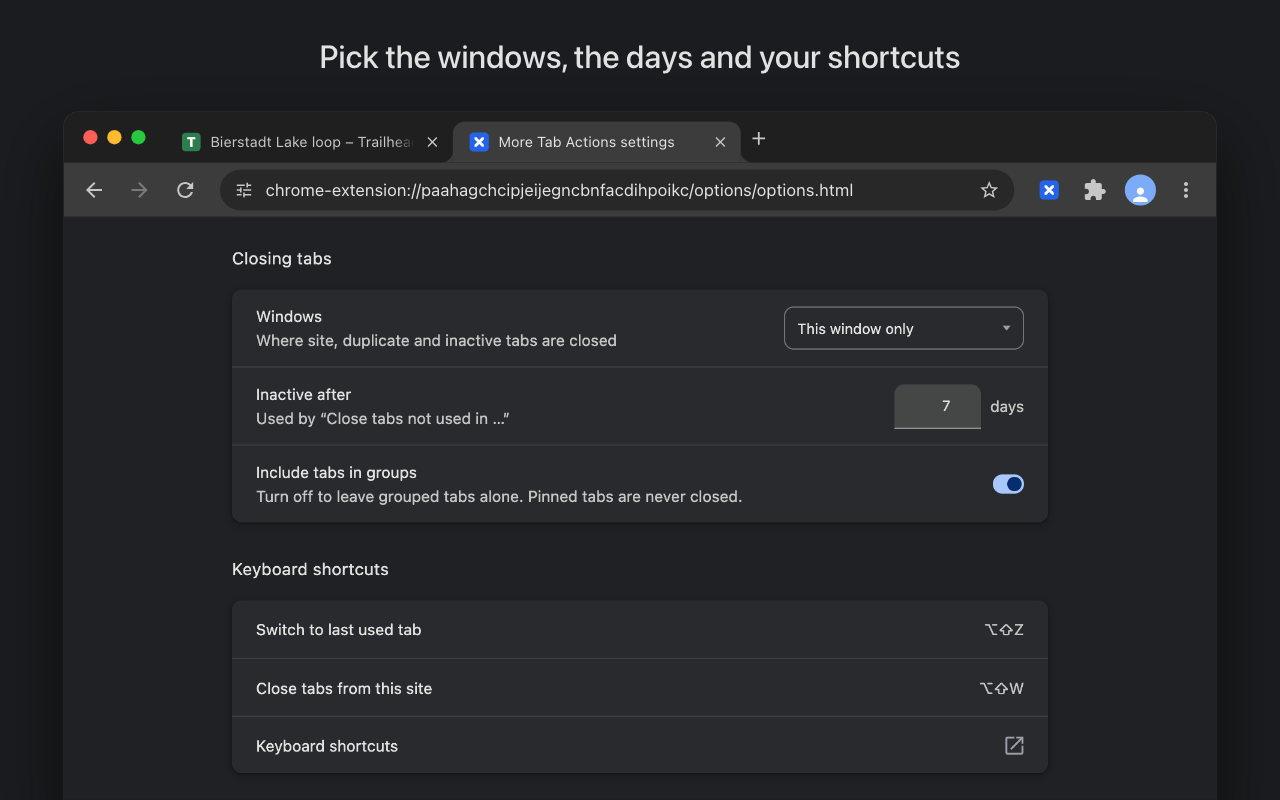
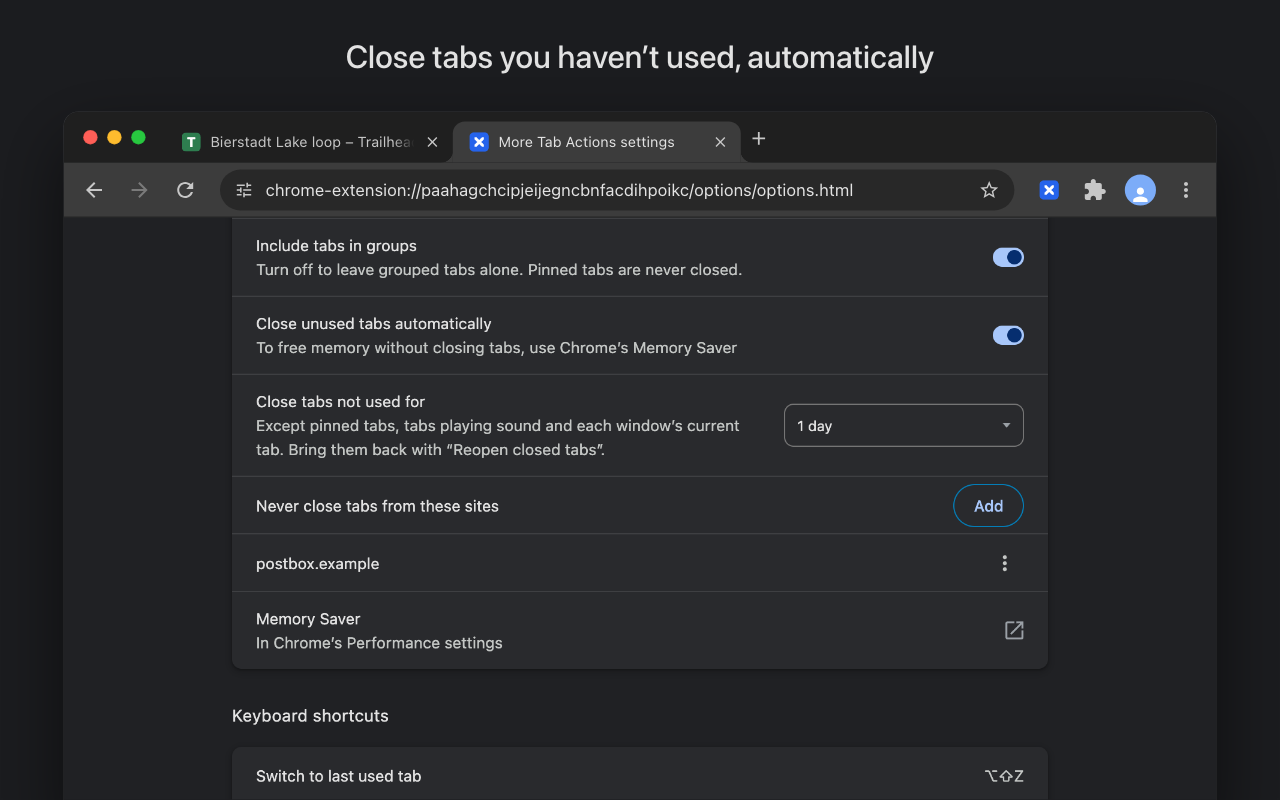
Document automatic closing; screenshot 5 shows it
README, PRIVACY, CHANGELOG, the store listing (description, alarms
justification, settings, zip contents) and CLAUDE.md, including that
Chrome gives extensions no camera, microphone or screen capture state.
Screenshot 5 is now the Closing tabs card with automatic closing on.

diff --git a/CHROMEWEBSTORE.md b/CHROMEWEBSTORE.md
@@ -32,6 +32,9 @@ CLOSE TABS
 • Close tabs to the left: the partner to Chrome’s “Close tabs to the right”.
 • Reopen closed tabs: brings back the last batch an action closed, in their windows, places and groups.
 
+CLOSE UNUSED TABS AUTOMATICALLY
+Turn it on to close tabs you haven’t used for 1, 4 or 12 hours, 1 or 3 days, or a week. The tab in front, pinned tabs, tabs playing sound and sites you list are never closed, and Reopen closed tabs brings the rest back. Off until you turn it on. To free memory without closing tabs, Chrome’s Memory Saver is a click away.
+
 TIDY UP
 • Sort tabs by site: tab groups stay together and pinned tabs stay put.
 • Mute other tabs: silences every other tab playing sound. Choose Unmute tabs to bring them back; tabs you muted yourself stay muted.
@@ -62,7 +65,7 @@ No account and no sign-in. More Tab Actions collects nothing and sends nothing. 
 Make Chrome Yours › Functionality & UI (alternative: Productivity › Tools).
 
 **Single Purpose** [REQUIRED]
-Adds extra actions for tabs to Chrome’s tab right-click menu (closing tabs by site, duplicate or unused tabs, reopening them, sorting tabs by site, muting other tabs, putting a window’s tabs into a tab group, and saving windows as a workspace to reopen later), with keyboard shortcuts for the same actions, plus a shortcut to switch back to the last used tab.
+Adds extra actions for tabs to Chrome’s tab right-click menu (closing tabs by site, duplicate or unused tabs, reopening them, sorting tabs by site, muting other tabs, putting a window’s tabs into a tab group, and saving windows as a workspace to reopen later), optionally closing unused tabs by itself, with keyboard shortcuts for the same actions, plus a shortcut to switch back to the last used tab.
 
 **Primary Language** [REQUIRED]
 English.
@@ -79,14 +82,14 @@ English.
 | Screenshot 2 | 1280×800 | ✅ Ready | `store/screenshot-2.png`: “Close duplicate tabs, keep one of each”, the tab strip before and after |
 | Screenshot 3 | 1280×800 | ✅ Ready | `store/screenshot-3.png`: “Mute every other tab”, the menu over tabs playing sound |
 | Screenshot 4 | 1280×800 | ✅ Ready | `store/screenshot-4.png`: “Choose what’s in the menu”, the settings page |
-| Screenshot 5 | 1280×800 | ✅ Ready | `store/screenshot-5.png`: “Pick the windows, the days and your shortcuts”, settings in dark mode: Closing tabs and Keyboard shortcuts |
+| Screenshot 5 | 1280×800 | ✅ Ready | `store/screenshot-5.png`: “Close tabs you haven’t used, automatically”, settings in dark mode: automatic closing on (1 day, one never-close site) and the Memory Saver link |
 | Screenshot 6 | 1280×800 | ✅ Ready | `store/screenshot-6.png`: “Save your windows, reopen them later”, the Workspaces card with three real workspaces and a row’s ⋮ menu open |
 | Small Promo Tile [RECOMMENDED] | 440×280 | ✅ Ready | `store/promo-440x280.png`: icon, name, “More from your tab menu” |
 | Marquee Promo Tile [OPTIONAL] | 1400×560 | ⬜ Not made | Only used if the store features the extension |
 
 **How they were made.** `node store/tools/make-screenshots.mjs` regenerates all seven. It loads
 `extension/` as an unpacked extension in Playwright's Chromium (Playwright 1.64.0 from the Tabby repo).
-- The settings pages (4, 5, 6) are real captures, at 1.2 like the others (shot 2 at 1). The script stops if shot 5’s Keyboard shortcuts card no longer fits. Shot 6’s workspaces are saved by the build’s own `snapshotWindows` and `workspaceName` from windows of the made-up sites (one renamed “Hiking trip”).
+- The settings pages (4, 5, 6) are real captures, at 1.2 like the others (shot 2 at 1). The script stops if shot 5’s rows, down to Memory Saver, no longer fit. Shot 6’s workspaces are saved by the build’s own `snapshotWindows` and `workspaceName` from windows of the made-up sites (one renamed “Hiking trip”).
 - Screenshot 2's tab lists are real: the script opens the tabs, runs the build's own “Close duplicate tabs” (`extension/shared/actions.js` `runAction`, as `extension/background/background.js` does) and draws the strip from `chrome.tabs` before and after.
 - Chrome's tab right-click menu is native, so it can't be captured headlessly; shots 1 and 3 draw it.
   - Its items and order come from Chromium's `tab_menu_model.cc` at tag 157.0.8103.39. They use the macOS Title Case strings, for a signed-out profile with one window and no tab groups.
@@ -106,9 +109,10 @@ English.
 | `contextMenus` | Adds the “More tab actions” submenu to the menu Chrome shows when the user right-clicks a tab. No install warning. |
 | `tabs` | The actions need each open tab’s address to find tabs from the same site and duplicate pages, to sort tabs by site and to name a new tab group after its main site, plus its last-used time for “Close tabs not used in N days”. “Save windows as workspace” reads the open tabs’ addresses, titles and pinned state to keep them on the device; “Open workspace” reopens them and discards the background ones (`chrome.tabs.discard`) so they load only when clicked. Tabs are read on the device, only when the user picks an action or a shortcut, and nothing is sent anywhere. Install warning: “Read your browsing history”. |
 | `tabGroups` | “Save this window as a group” and “Close window and keep as group” name the tab group they make (`chrome.tabGroups.update`, title only; Chrome picks the colour). Saving a workspace reads the open groups’ titles, colours and collapsed state (`chrome.tabGroups.query`), and opening one makes them again with the same title, colour and collapsed state. Making a group itself (`chrome.tabs.group`) needs no permission; reading and naming it do. Nothing is sent anywhere. Install warning: “View and manage your tab groups”. |
-| `storage` | `chrome.storage.sync` keeps the user’s settings (hidden actions, days, windows, grouped tabs), so Chrome Sync carries them to the user’s other computers through their own Google account, like Chrome’s own settings (signed out of Chrome, they stay on the computer). `chrome.storage.local` holds the user’s saved workspaces (`workspaces`: per window, tab addresses, titles, pinned state, tab groups and the window’s size and state; at most 40 of 500 tabs and 200 KB each; this computer only, never synced, deleted with the extension), a settings change Chrome Sync refused for the moment, until it’s retried, and whether Chrome was last seen in light or dark mode (`toolbarDark`, one true/false, this computer only, never synced), for the toolbar icon. `chrome.storage.session` remembers the addresses of the last batch of tabs an action closed, so “Reopen closed tabs” can bring them back. Chrome clears that when it quits. Nothing is sent to the developer. No install warning. |
+| `storage` | `chrome.storage.sync` keeps the user’s settings (hidden actions, days, windows, grouped tabs, automatic closing, the sites it never closes), so Chrome Sync carries them to the user’s other computers through their own Google account, like Chrome’s own settings (signed out of Chrome, they stay on the computer). `chrome.storage.local` holds the user’s saved workspaces (`workspaces`: per window, tab addresses, titles, pinned state, tab groups and the window’s size and state; at most 40 of 500 tabs and 200 KB each; this computer only, never synced, deleted with the extension), a settings change Chrome Sync refused for the moment, until it’s retried, and whether Chrome was last seen in light or dark mode (`toolbarDark`, one true/false, this computer only, never synced), for the toolbar icon. `chrome.storage.session` remembers the addresses of the last batch of tabs an action closed, so “Reopen closed tabs” can bring them back. Chrome clears that when it quits. Nothing is sent to the developer. No install warning. |
 | `commands` (manifest key) | Keyboard shortcuts for the same actions, plus “Switch to last used tab”; two have defaults (Close tabs from this site, Alt+Shift+W; Switch to last used tab, Alt+Shift+Z). Users change them at chrome://extensions/shortcuts. The two group actions and the three workspace actions (save windows, save this window, open the last workspace) have commands with no default key. No install warning. |
 | `action` (manifest key, not a permission) | The toolbar button opens the settings page. Its icon is a plain glyph in Chrome’s own toolbar icon colours, light or dark to match Chrome. |
+| `alarms` | “Close unused tabs automatically” (off by default) checks every 5 minutes, while it’s on, for tabs not used for the time the user chose (`chrome.alarms`, one alarm, cleared when the setting is turned off). It reads only the open tabs’ last-used times, addresses and states, on the device, and closes the unused ones, keeping their addresses in session storage so “Reopen closed tabs” can bring them back. No install warning (checked against Chrome’s `management.getPermissionWarningsByManifest`). |
 | `offscreen` | Keeps one small hidden page (`offscreen/offscreen.html`, reason `MATCH_MEDIA`) that reads whether Chrome is in light or dark mode (`matchMedia('(prefers-color-scheme: dark)')`, which the service worker can’t call), so the toolbar icon matches Chrome’s own icons. It only reads that one true/false and tells the extension’s service worker when it changes; it loads nothing and sends nothing anywhere. No install warning. |
 
 No host permissions, no content scripts, no `scripting`.
@@ -155,7 +159,7 @@ repo must be public first). The text is `PRIVACY.md`; the draft below is the sam
 
 | Version | Date | Notes |
 |---|---|---|
-| 1.0.0 | 2026-11-09 | First build, not yet submitted. Includes “Save this window as a group” and “Close window and keep as group” (adds `tabGroups`, warning “View and manage your tab groups”). Workspaces (save windows, reopen them; kept in local storage only; no new permission). Settings always sync through Chrome Sync (the opt-in switch is gone; earlier test installs’ settings move over by themselves). About card at the end of the settings page. |
+| 1.0.0 | 2026-11-09 | First build, not yet submitted. Includes “Save this window as a group” and “Close window and keep as group” (adds `tabGroups`, warning “View and manage your tab groups”). Workspaces (save windows, reopen them; kept in local storage only; no new permission). Close unused tabs automatically (adds `alarms`, no warning). Settings always sync through Chrome Sync (the opt-in switch is gone; earlier test installs’ settings move over by themselves). About card at the end of the settings page. |
 
 ## Submit checklist
 
@@ -167,7 +171,7 @@ repo must be public first). The text is `PRIVACY.md`; the draft below is the sam
 
 **Build:**
 - [ ] `npm run package` (tests, kit check, zip). The zip is exactly the contents of `extension/`, less the toolbar glyph's SVG sources (`test/package.test.js` checks this):
-      `unzip -l release/more-tab-actions.zip` should list 39 files: `manifest.json` at the root, then `background/` (2), `offscreen/` (2), `options/` (6), `shared/` (6), `vendor/` (12, the kit's browser half) and `icons/` (10 PNGs); no `store/`, `test/`, `scripts/` or `docs/`.
+      `unzip -l release/more-tab-actions.zip` should list 42 files: `manifest.json` at the root, then `background/` (3), `offscreen/` (2), `options/` (8), `shared/` (6), `vendor/` (12, the kit's browser half) and `icons/` (10 PNGs); no `store/`, `test/`, `scripts/` or `docs/`.
 - [ ] **No placeholder links.** `extension/options/about-links.js` points at the GitHub repo (README, Issues, PRIVACY.md); `npm run package` warns loudly if any link is ever set back to example.com.
 - [ ] Load the `extension/` folder in a clean profile and right-click a tab: the submenu, a shortcut and the settings page all work.
 
@@ -179,7 +183,7 @@ repo must be public first). The text is `PRIVACY.md`; the draft below is the sam
    - small promo tile `store/promo-440x280.png`.
 
    Add the homepage and support URLs if you have them.
-3. **Privacy practices**: fill in the single purpose, each permission justification (`contextMenus`, `tabs`, `tabGroups`, `storage`), remote code: No, no data types ticked, the three certifications, and the privacy policy URL.
+3. **Privacy practices**: fill in the single purpose, each permission justification (`contextMenus`, `tabs`, `tabGroups`, `storage`, `offscreen`, `alarms`), remote code: No, no data types ticked, the three certifications, and the privacy policy URL.
 4. **Distribution**: Free; Public; all regions (or as you prefer).
 5. **Test instructions** (if asked): none needed. There’s no login; right-click any tab.
 6. **Submit for review.** Optionally untick “Publish automatically after approval” to choose the moment. Reviews of a `tabs` permission can take a few days; the justification above answers the usual question.

diff --git a/README.md b/README.md
@@ -2,8 +2,9 @@
 
 More actions in Chrome’s tab right-click menu: close every tab from a site, close duplicates or
 tabs you haven’t used in a week, reopen what you just closed, sort and mute tabs, turn a whole
-window into a saved tab group, and save your windows as a workspace to reopen later. Plus a
-shortcut to flip back to the last tab you used.
+window into a saved tab group, and save your windows as a workspace to reopen later. It can also
+close tabs you haven’t used for a while by itself. Plus a shortcut to flip back to the last tab
+you used.
 
 ![The tab menu with More tab actions open](store/screenshot-1.png)
 
@@ -47,11 +48,25 @@ Two come set:
 “Save windows as workspace”, “Save this window as workspace” and “Open last workspace” are there
 too, with no key set (Chrome allows an extension at most four suggested keys).
 
+## Close unused tabs automatically
+
+Off until you turn it on (settings page, Closing tabs). Then every few minutes, tabs you haven’t
+used for the time you pick (1, 4 or 12 hours, 1 or 3 days, or 1 week, by Chrome’s own last-used
+time) are closed, in every normal window. They join “Reopen closed tabs”, so they come back in
+their places and groups. Never closed: each window’s current tab, pinned tabs, tabs playing
+sound, incognito tabs, tabs in groups when “Include tabs in groups” is off, and tabs from the
+sites you list under “Never close tabs from these sites”.
+
+Chrome doesn’t tell extensions which tabs are using your camera, microphone or screen, so a
+call that’s quiet in a background tab isn’t recognised: add its site to the list. To free memory
+without closing anything, use Chrome’s own Memory Saver (chrome://settings/performance), which
+the settings page links to.
+
 ## Settings
 
 Click the toolbar icon. Choose which actions appear in the menu, how many days count as inactive,
-which windows the close actions work on, and whether grouped tabs may be closed. Settings sync
-between your computers through Chrome Sync.
+which windows the close actions work on, whether grouped tabs may be closed, automatic closing,
+and your workspaces. Settings sync between your computers through Chrome Sync; workspaces don’t.
 
 ## Privacy
 
@@ -67,9 +82,11 @@ Nothing is collected or sent anywhere: no network requests, no analytics, no acc
 | `tabGroups` | Naming the group when you save a window as a group |
 | `storage` | Your settings; the last closed tabs so they can be reopened; your workspaces (on this computer only, never synced) |
 | `offscreen` | A tiny hidden page that tells whether Chrome is in light or dark mode, for the toolbar icon |
+| `alarms` | Checking for unused tabs every few minutes, while “Close unused tabs automatically” is on |
 
 Chrome shows “Read your browsing history” (for `tabs`) and “View and manage your tab groups”
-(for `tabGroups`) when you install it. Workspaces need no other permission.
+(for `tabGroups`) when you install it. Workspaces need no other permission, and `alarms` shows no
+warning (the e2e check asks Chrome for the manifest’s warnings, with and without it).
 
 ## Install from source
 
@@ -101,10 +118,11 @@ more-tab-actions/
 ├── extension/                  the extension: load this folder, zip its contents
 │   ├── manifest.json
 │   ├── background/             the service worker: background.js (menu, shortcuts, running
-│   │                           actions), recent.js
+│   │                           actions), auto-close.js, recent.js
 │   ├── offscreen/              offscreen.html/.js: tells the worker Chrome's light or dark mode
 │   ├── options/                the settings page, styled like chrome://settings: options.html/
-│   │                           .css/.js, workspaces-section.js, action-menu.js, about-links.js
+│   │                           .css/.js, workspaces-section.js, keep-sites.js, action-menu.js,
+│   │                           text-dialog.js, about-links.js
 │   ├── shared/                 loaded by the worker and the pages: actions.js (what each action
 │   │                           does), workspaces.js, settings.js, sites.js, text.js, undo.js
 │   ├── vendor/extension-kit/   @arraypress/extension-kit's browser half, copied in by npm install

diff --git a/CLAUDE.md b/CLAUDE.md
@@ -10,7 +10,7 @@ page, and by the worker at start). The options page debounces its writes (sync a
 The About card's links are in `options/about-links.js` (`githubAboutLinks`; `npm run package`
 warns loudly if one is ever a placeholder). `npm test` (ESLint; `tsc`, a strict check of the JSDoc types;
 node --test; and `extension-kit duplication`, which fails on copied code not listed in `.jscpd-allowlist.json`), `npm run package` (tests, zip, link reminders),
-`npm run e2e` (Playwright checks in real Chromium, `test/e2e/`: the group actions, workspaces, the options page and the toolbar glyph; not part of `npm test`).
+`npm run e2e` (Playwright checks in real Chromium, `test/e2e/`: the group actions, workspaces, automatic closing, the options page and the toolbar glyph; not part of `npm test`).
 `test/package.test.js` checks the zip is exactly `extension/` (less the SVG sources) and that every path the extension names resolves inside it.
 
 Toolbar glyph: `action.default_icon` is a light/dark glyph (`icons/toolbar/`, `npm run toolbar-icons`). The kit does the work: `startToolbarTheme(chrome)` in the worker, `watchColorScheme(chrome)` on the options page, `watchSchemeOffscreen` in `offscreen/` (kept open with reason MATCH_MEDIA, polling as offscreen pages get no `change` events), key `toolbarDark` in local, never synced; `test/e2e/toolbar.mjs` runs the kit's `checkToolbarTheme`.
@@ -49,6 +49,23 @@ What real Chromium does (checked with Playwright's Chromium 156, `test/e2e/works
   it reopens to your saved tab groups"): on keeps the workspace faithful, off reopens the tabs ungrouped and
   adds nothing. Reusing an open group with the same title was rejected: it would pull tabs into another window's
   group, and does nothing for the closed copies that pile up.
+
+## Close unused tabs automatically
+`background/auto-close.js`: an alarm (`close-unused-tabs`, every `CHECK_MINUTES` = 5) while `autoClose` is on
+closes tabs `unused()` (shared with "Close tabs not used in N days" in `shared/actions.js`) for `autoCloseHours`
+(1, 4, 12, 24, 72, 168; `AUTO_CLOSE_HOURS` in settings.js), in normal windows, never incognito, never on
+`keepSites` (or their subdomains). Closed tabs are *appended* to the undo batch (`recordClosed(..., {append: true})`,
+capped at 500) so earlier automatic closes stay reopenable; a menu action still starts a new batch. Sites are
+typed into `options/text-dialog.js` (shared with "Rename workspace") and listed by `options/keep-sites.js`, as
+chrome://settings/performance lists Memory Saver's sites; the list is cut to fit one sync item. Memory Saver is
+only linked, never reimplemented.
+- **Camera, mic, screen.** Chrome exposes no capture state to extensions: with fake devices in Chromium 156, a
+  tab using `getUserMedia` (camera and mic) or `getDisplayMedia` showed no change in any `chrome.tabs.Tab` field
+  (`audible` stays false), and `tabs.discard` didn't refuse it. Only a content script (host permissions) or
+  `debugger`/`tabCapture` could tell, so it isn't attempted; the README says to list a call's site.
+- **`alarms`** has no install warning: `test/e2e/auto-close.mjs` compares Chrome's own warnings for the manifest
+  with and without it. That check runs on a test build (`.test-builds/auto-close/`, gitignored, deleted after)
+  where `HOUR_MS` is a second and `CHECK_MINUTES` 0.02; unpacked extensions may set alarms that short.
 
 ## Design
 - The options page copies chrome://settings. Its look comes from `chrome-ui.css` in `@arraypress/extension-kit`

diff --git a/PRIVACY.md b/PRIVACY.md
@@ -4,22 +4,24 @@ More Tab Actions works entirely in Chrome on your computer. It collects nothing 
 
 ## What it reads
 
-When you choose one of its actions or shortcuts, it looks at your open tabs’ addresses, titles and
-last-used times, inside Chrome, so it can close, sort, mute, group, switch to or reopen the right
+When you choose one of its actions or shortcuts (and, with automatic closing on, every few
+minutes), it looks at your open tabs’ addresses, titles and last-used times, inside Chrome, so it can close, sort, mute, group, switch to or reopen the right
 tabs, and when you save a workspace, the open windows and their tab groups. Tab groups it makes
 (including those it reopens from a workspace) are kept by Chrome itself, in your saved tab
 groups, like the groups you make yourself.
 
 ## What it keeps
 
-- **Your settings** (which actions show, the number of days, the windows, grouped tabs), in Chrome’s
-  own extension storage. If you’re signed in to Chrome with sync on, Chrome Sync keeps them in your
-  Google account so your other computers get the same settings, as it does for Chrome’s own settings.
+- **Your settings** (which actions show, the number of days, the windows, grouped tabs, automatic
+  closing and the sites it never closes), in Chrome’s own extension storage. If you’re signed in
+  to Chrome with sync on, Chrome Sync keeps them in your Google account so your other computers get
+  the same settings, as it does for Chrome’s own settings.
 - **Your workspaces**, when you save one: each window’s tabs (addresses and titles), which were
   pinned, its tab groups (names and colours) and its size, so “Open workspace” can bring them back.
   They are kept on this computer only, in Chrome’s local extension storage: never synced, never
   sent anywhere. Delete one on the settings page, or remove the extension, and it’s gone.
-- **The last tabs it closed**, on this computer only, so “Reopen closed tabs” can bring them back.
+- **The last tabs it closed**, on this computer only, so “Reopen closed tabs” can bring them back
+  (with automatic closing on, the tabs it closed by itself are added to them).
 - **The tabs you used most recently**, on this computer only, so “Switch to last used tab” knows
   where to go back to.
 - **Whether Chrome is in light or dark mode**, on this computer only, to draw its toolbar icon in

diff --git a/CHANGELOG.md b/CHANGELOG.md
@@ -16,6 +16,10 @@ First version.
   synced; up to 40 workspaces of up to 500 tabs. **Reopen tab groups** setting, as Chrome saves
   every group it reopens. Shortcuts (no keys set): save windows, save this window, open the last
   workspace.
+- **Close unused tabs automatically** (off by default): tabs not used for 1, 4 or 12 hours, 1 or 3
+  days, or 1 week are closed every few minutes (`chrome.alarms`, no install warning) and join
+  “Reopen closed tabs”. Keeps each window’s current tab, pinned, playing, incognito and (if set)
+  grouped tabs, and a “Never close tabs from these sites” list. Links to Chrome’s Memory Saver.
 - **Switch to last used tab** (Alt+Shift+Z), across windows.
 - Keyboard shortcuts for every action; choose which actions show in the menu.
 - Settings sync through Chrome Sync; settings page styled like chrome://settings, with an About card.
